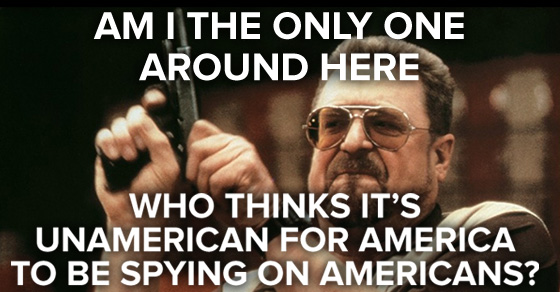
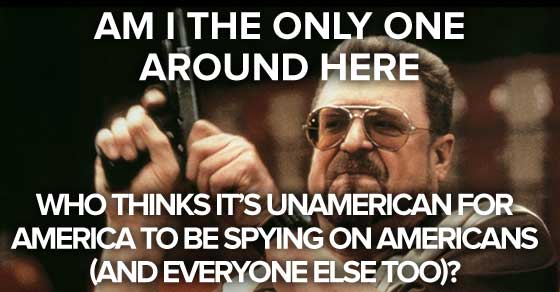
fixed lebowski, added other sentence

Changed region(s): [[0.0, 0.6473, 0.9714, 1.0]]

diff --git a/index.html b/index.html
@@ -162,6 +162,7 @@
                     <img src="/img/banner_preview.png" style="margin-bottom:20px" />
                     <p>We’re creating embeddable banners and widgets that you’ll be able to add to your site to encourage  visitors to participate in the day of action. The photo above is just a draft - the final design is yet to come.</p>
                     <p>Sign up here if you have a site that can participate and we’ll let you know how to implement a widget when they’re ready.</p>
+                    <p>If you work at a tech company or startup, lobby the management and ask them to join too.</p>
 
                     <div id="greybox">
                       <h5>Sign up and get notified when they're ready:</h5>
@@ -222,22 +223,22 @@
                       <p class="text-center morefb">
                         <strong>Click to share one of these photos on Facebook:</a>
                       </p>
-                      <div class="col-md-6">
+                      <div class="col-sm-6">
                         <a onclick="shareFacebookImage(1); return false;" href="https://www.facebook.com/share.php?u=https://thedaywefightback.org/1/" target="_blank">
                           <img class="img-responsive" src="/img/fb1s.jpg" alt="Lebowski is against surveillance too" />
                         </a>
                       </div>
-                      <div class="col-md-6">
+                      <div class="col-sm-6">
                         <a onclick="shareFacebookImage(2); return false;" href="https://www.facebook.com/share.php?u=https://thedaywefightback.org/2/" target="_blank">
                           <img class="img-responsive" src="/img/fb2s.jpg" alt="This person is in for The Day We Fight Back" />
                         </a>
                       </div>
-                      <div class="col-md-6">
+                      <div class="col-sm-6">
                         <a onclick="shareFacebookImage(3); return false;" href="https://www.facebook.com/share.php?u=https://thedaywefightback.org/3/" target="_blank">
                           <img class="img-responsive" src="/img/fb3s.jpg" alt="We're protecting you - keep browsing" />
                         </a>
                       </div>
-                      <div class="col-md-6">
+                      <div class="col-sm-6">
                         <a onclick="shareFacebookImage(4); return false;" href="https://www.facebook.com/share.php?u=https://thedaywefightback.org/4/" target="_blank">
                           <img class="img-responsive" src="/img/fb4s.jpg" alt="Ben Franklin quote about privacy and security" />
                         </a>
@@ -275,7 +276,7 @@
 
 
     <footer>
-        <p class="smalltext">Thank yous to: <a href="https://twitter.com/neutralthoughts" target="_blank">Thomas Davis</a> (code), <a href="http://matthewgerring.com">Matthew Gerring</a> (code), <a href="http://www.shaykevin.com/" target="_blank">Kevin Shay</a> (design).</p>
+        <p class="smalltext">Thank you to: <a href="https://twitter.com/neutralthoughts" target="_blank">Thomas Davis</a> (code), <a href="http://matthewgerring.com">Matthew Gerring</a> (code), <a href="http://www.shaykevin.com/" target="_blank">Kevin Shay</a> (design).</p>
         <p class="smalltext">Photo Credit: <a href="http://www.flickr.com/photos/27366393@N00/6723906167/">alecperkins</a> <a href="http://creativecommons.org/licenses/by/2.0/">cc</a></p>
         <p>This site is licensed under a <a href="http://creativecommons.org/licenses/by/4.0/" target="_blank">Creative Commons Attribution 4.0 International</a> License.
             <br/><a href="privacy.html" style="float: right;">Privacy Policy (updated October 26th, 2013)</a>

diff --git a/css/main.css b/css/main.css
@@ -216,8 +216,8 @@ p#intro span {
 #actions #intro {
 	font-size: 19px;
 	font-weight: 600;
-	margin-top: 15px;
-	margin-bottom:40px;
+	margin-top: 30px;
+	margin-bottom:30px;
 }
 
 div.step h4 {
@@ -236,7 +236,9 @@ div.step h4 {
 div.step p {
     font-size:.95em;
 }
-
+.step.row {
+	margin-bottom:15px;
+}
 .step img {
     max-width:100%;
 }
@@ -259,6 +261,10 @@ div.step p {
 }
 #fb-share-graphics img:hover {
 	opacity:0.8;
+}
+#fb-share-graphics img {
+	margin-left: auto;
+	margin-right: auto;
 }
 .banner-signup-form {
 	margin: auto;
